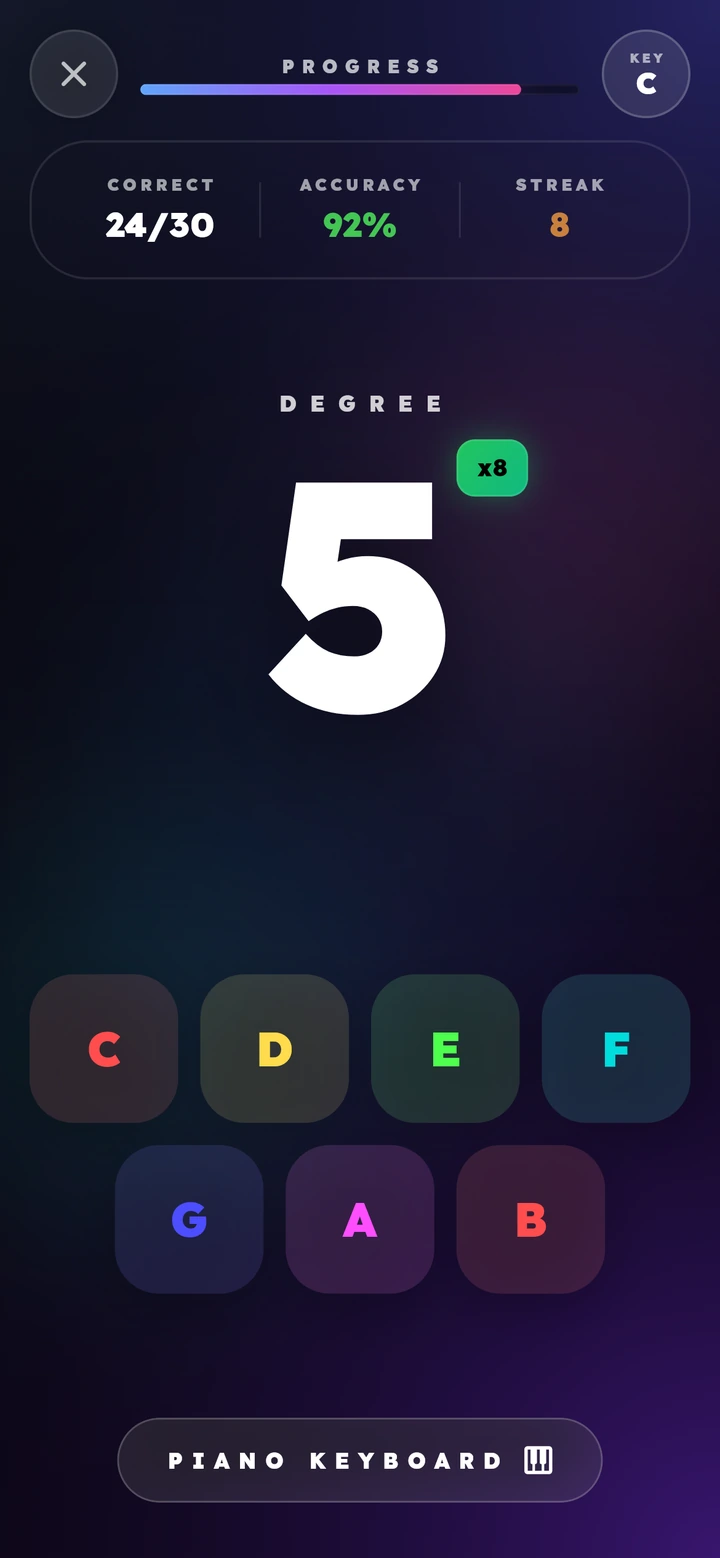
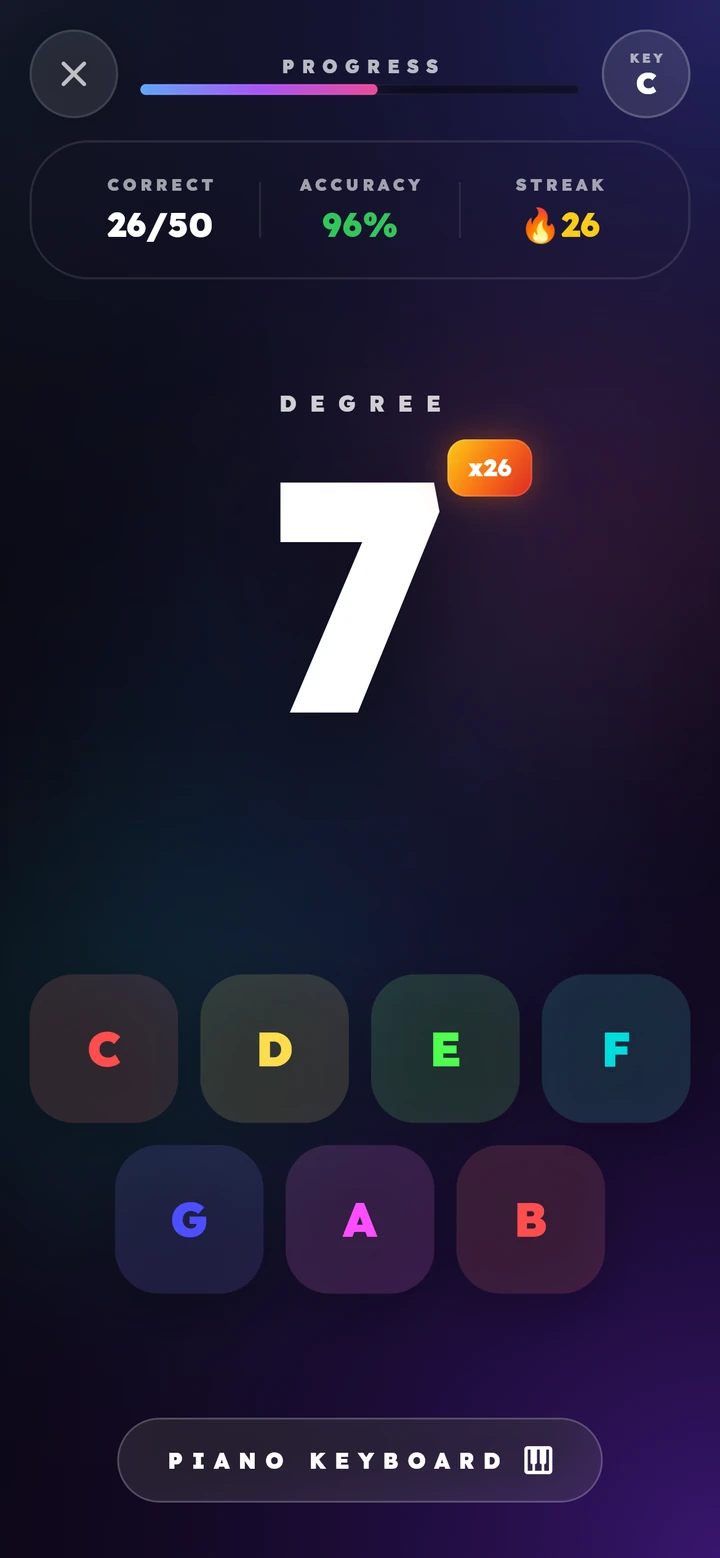
Reshoot every app screenshot from the real app, fonts intact
The method-page mockups and the home-page hero were carrying screenshots
with the wrong typeface: an earlier capture answered every Google Fonts
request with Roboto, so any glyph CanvasKit fetched — including the 🔥
streak emoji, which rendered as a tofu box — came out wrong.

These are recaptured by driving the actual Flutter web build: a seeded
"few months in" profile (built through the app's own model, not hand-written
JSON), then each screen reached and its questions answered correctly by
reading the semantics tree, so the trainer shots show a session in good
shape rather than a pad of wrong guesses. The only fonts served to the
browser are the ones the app can't bundle — CanvasKit's Roboto fallback
(for its own URL only) and Noto Color Emoji for the flame — so the type is
exactly what ships on device.

New this pass: chromatic and the two harmoniser modes (Note-to-Number,
…Of What?) that the old set never showed, plus the Pocket Mode setup.

Subtitles and alt text are updated to match what each new screenshot
actually shows (key, degree, note) instead of the old examples.

diff --git a/src/components/WhyImprovyPage.tsx b/src/components/WhyImprovyPage.tsx
@@ -420,7 +420,7 @@ export function WhyImprovyPage({ onBack }: WhyImprovyPageProps) {
                   streak="7 Days"
                   timer="0:14"
                   screenshot={methodDiatonicImg}
-                  screenshotAlt="Improvy diatonic training session in the key of C — degree 6 with the note grid"
+                  screenshotAlt="Improvy diatonic training session in the key of C — degree 7 with the note grid"
                 />
               </div>
             </div>
@@ -449,7 +449,7 @@ export function WhyImprovyPage({ onBack }: WhyImprovyPageProps) {
               <div className="relative z-10 flex justify-center py-4">
                 <InteractiveIPhoneMockup 
                   title="Chromatic Extensions"
-                  subtitle="Key of F♯ Alt"
+                  subtitle="Key of C · all 12"
                   badge="CHROMATIC"
                   badgeColor="rose"
                   modeType="chromatic"
@@ -457,7 +457,7 @@ export function WhyImprovyPage({ onBack }: WhyImprovyPageProps) {
                   streak="12 Days"
                   timer="0:08"
                   screenshot={methodChromaticImg}
-                  screenshotAlt="Improvy chromatic training in the key of E flat — the flat 5 degree with the enharmonic answer grid"
+                  screenshotAlt="Improvy chromatic training in the key of C — the sharp-5 degree with the twelve-semitone enharmonic answer grid"
                 />
               </div>
             </div>
@@ -486,7 +486,7 @@ export function WhyImprovyPage({ onBack }: WhyImprovyPageProps) {
               <div className="relative z-10 flex justify-center py-4">
                 <InteractiveIPhoneMockup 
                   title="Reverse Translation"
-                  subtitle="Key of A♭ Maj"
+                  subtitle="Key of C Major"
                   badge="REVERSE"
                   badgeColor="purple"
                   modeType="inverse"
@@ -494,7 +494,7 @@ export function WhyImprovyPage({ onBack }: WhyImprovyPageProps) {
                   streak="21 Days"
                   timer="0:03"
                   screenshot={methodN2NImg}
-                  screenshotAlt="Improvy Note-to-Number training — the note E flat shown for its scale degree"
+                  screenshotAlt="Improvy Note-to-Number training in the key of C — the note A shown for its scale degree"
                 />
               </div>
             </div>
@@ -558,7 +558,7 @@ export function WhyImprovyPage({ onBack }: WhyImprovyPageProps) {
               <div className="relative z-10 flex justify-center py-4">
                 <InteractiveIPhoneMockup
                   title="…Of What?"
-                  subtitle="Note E · the 5th"
+                  subtitle="Note C · the 7th"
                   badge="OF WHAT"
                   badgeColor="cyan"
                   modeType="ofwhat"
@@ -566,7 +566,7 @@ export function WhyImprovyPage({ onBack }: WhyImprovyPageProps) {
                   streak="9 Days"
                   timer="0:05"
                   screenshot={methodOfWhatImg}
-                  screenshotAlt="Improvy …Of What? mode — the note E presented as the 5th, with the twelve root answers"
+                  screenshotAlt="Improvy …Of What? mode — the note C presented as the 7th, with the twelve root answers"
                 />
               </div>
             </div>
@@ -601,7 +601,7 @@ export function WhyImprovyPage({ onBack }: WhyImprovyPageProps) {
                   streak="Continuous"
                   timer="AUTO"
                   screenshot={methodPocketImg}
-                  screenshotAlt="Improvy Pocket Mode — hands-free audio trainer with the answer note lit on the keyboard"
+                  screenshotAlt="Improvy Pocket Mode setup — choosing key, degrees, answer delay and length for a hands-free audio session"
                 />
               </div>
             </div>
